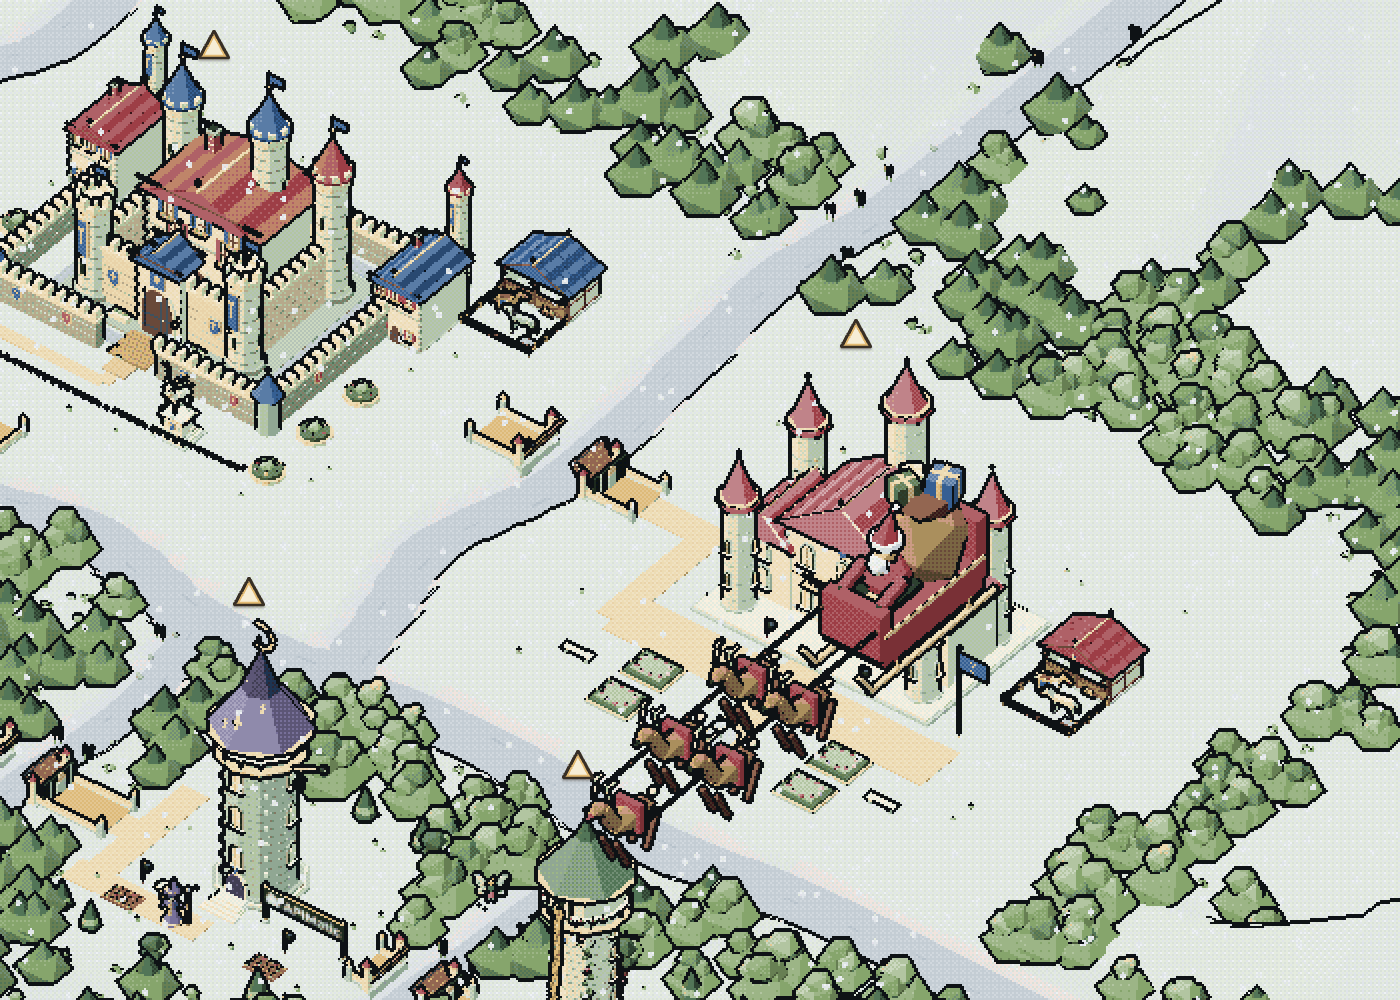
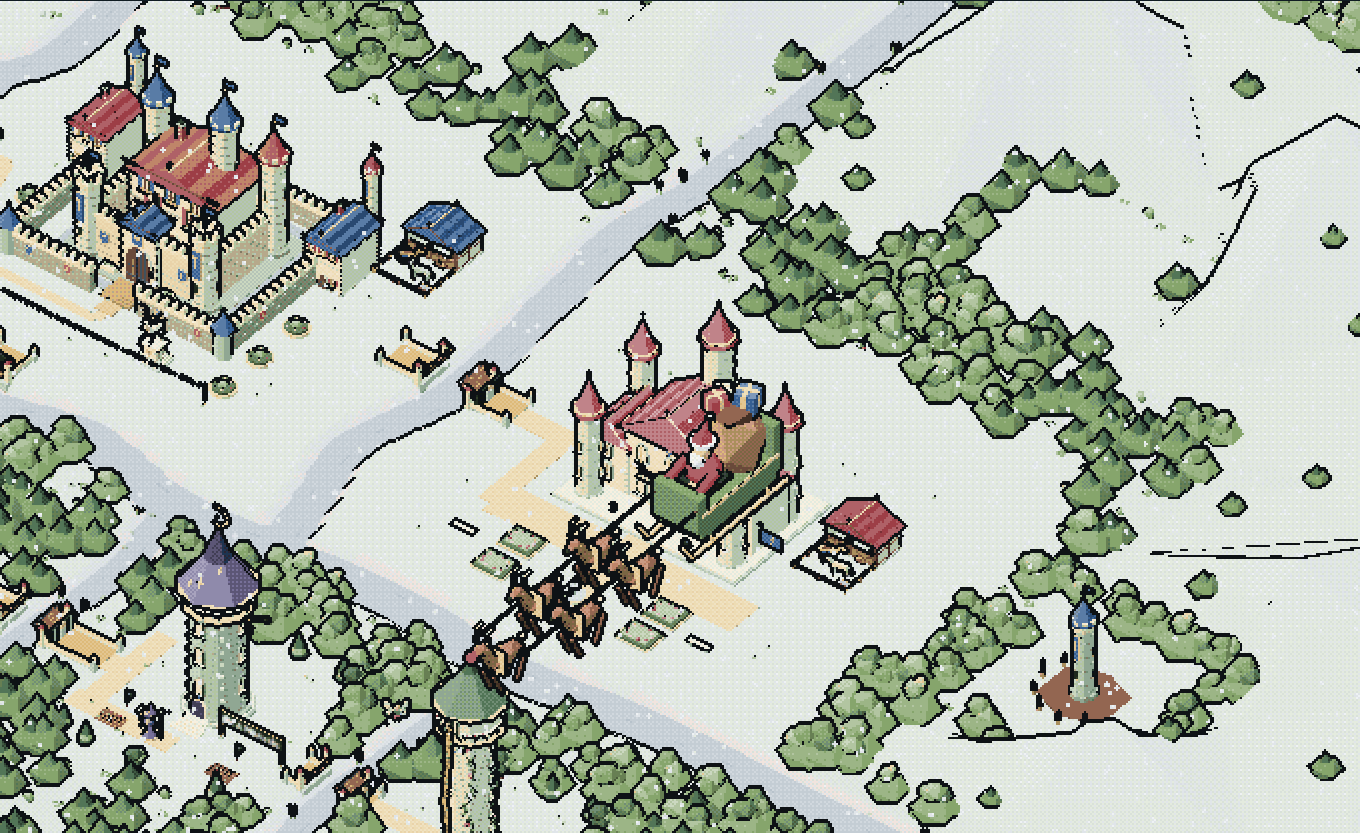
Make the Snow sleigh readable: red driver, green sleigh, brown reindeer
At night the sleigh team rendered near-black under moonlight, and by day
the red coat sat in a red sleigh while each reindeer wore a wide red band.
The driver is now red in a green and gold sleigh, the reindeer are brown
with a slim gold collar, and the lead's red nose is larger. The team's
meshes use their own copies of the materials and glow a little in their
own colours, more at night; shared scenery materials are untouched.

The Snow browser test requires the night glow to exceed the day glow.
New day and night renders replace the earlier sleigh picture.

diff --git a/src/world/winter-sleigh.js b/src/world/winter-sleigh.js
@@ -4,6 +4,10 @@ import * as THREE from 'three';
 // tree with a snowman in one outer meadow. Cosmetic only: never a district, reward, payment or ledger state.
 const WHITE=0xffffff,TREE_SITE=Object.freeze({x:-60,z:80});
 const FLIGHT=Object.freeze({x:32,z:0,rx:105,rz:52,height:30,speed:.1});
+// The flying team's own colours: a red driver in a green sleigh, so he stands out against it, behind brown reindeer.
+const SANTA=0xb8323d,SLEIGH=0x3d7a56,DEER=0x9a6646,HOOF=0x6b4630,NOSE=0xd22f3b;
+// How strongly the team glows in its own colours. Moonlight alone turns it near-black, so the glow is strongest at night.
+const GLOW=Object.freeze({day:.1,afternoon:.22,night:.55});
 export function createWinterSleigh({group,builder,colours:C,groundLevel=0}) {
   const root=new THREE.Group();root.name='winter-scenery';root.visible=false;group.add(root);
   const part=(...a)=>builder.part(...a);
@@ -19,19 +23,21 @@ export function createWinterSleigh({group,builder,colours:C,groundLevel=0}) {
     box(sleigh,0,1.38,z*1.08,3.6,.12,.06,C.gold);
     box(sleigh,5.9,1.6,z*.95,8.6,.05,.05,C.soil);
   }
-  box(sleigh,0,.9,0,3.6,.9,1.7,C.red);box(sleigh,1.75,1.35,0,.4,1.3,1.7,C.red);box(sleigh,-1.75,1.6,0,.4,1.8,1.7,C.red);
-  rock(sleigh,.6,1.95,0,1.2,1.3,1.2,C.red);box(sleigh,.6,1.6,0,1.1,.16,1.1,C.dark);box(sleigh,1.12,1.6,0,.1,.22,.3,C.gold);
-  for(const z of [-.55,.55]){box(sleigh,1.15,2.05,z,.9,.26,.26,C.red,0,-.3);rock(sleigh,1.6,1.9,z,.3,.3,.3,C.dark);}
+  box(sleigh,0,.9,0,3.6,.9,1.7,SLEIGH);box(sleigh,1.75,1.35,0,.4,1.3,1.7,SLEIGH);box(sleigh,-1.75,1.6,0,.4,1.8,1.7,SLEIGH);
+  // The driver: red coat and hat, white trim and beard, dark belt and mittens.
+  rock(sleigh,.6,1.95,0,1.2,1.3,1.2,SANTA);box(sleigh,.6,1.6,0,1.1,.16,1.1,C.dark);box(sleigh,1.12,1.6,0,.1,.22,.3,C.gold);
+  for(const z of [-.55,.55]){box(sleigh,1.15,2.05,z,.9,.26,.26,SANTA,0,-.3);rock(sleigh,1.6,1.9,z,.3,.3,.3,C.dark);}
   rock(sleigh,.7,2.75,0,.68,.68,.68,C.skin);rock(sleigh,.96,2.52,0,.5,.6,.62,WHITE);
-  part(sleigh,'round',.66,3.04,0,.82,.18,.82,WHITE);part(sleigh,'cone',.56,3.4,0,.72,.8,.72,C.red,0,.35);rock(sleigh,.3,3.72,0,.26,.26,.26,WHITE);
+  part(sleigh,'round',.66,3.04,0,.82,.18,.82,WHITE);part(sleigh,'cone',.56,3.4,0,.72,.8,.72,SANTA,0,.35);rock(sleigh,.3,3.72,0,.26,.26,.26,WHITE);
   rock(sleigh,-.75,2.2,0,2.3,2.7,2,C.wood);rock(sleigh,-.75,3.3,0,1.7,.7,1.5,C.soil);
-  gift(sleigh,-1.05,3.62,-.3,.7,C.blue,.3);gift(sleigh,-.4,3.6,.32,.6,C.pine,-.4);gift(sleigh,-.95,3.5,.5,.5,C.cream,.8);
-  // Two harnessed pairs and a red-nosed lead.
+  gift(sleigh,-1.05,3.62,-.3,.7,C.blue,.3);gift(sleigh,-.4,3.6,.32,.6,SANTA,-.4);gift(sleigh,-.95,3.5,.5,.5,C.cream,.8);
+  // Two harnessed pairs and a lead: brown coats, a slim gold collar and bell each, and the lead's red nose.
   const deer=(x,z,lead=false)=>{
-    rock(sleigh,x,1.15,z,1.7,.8,.7,C.wood);box(sleigh,x,1.2,z,.22,.84,.74,C.red);rock(sleigh,x,.7,z,.2,.2,.2,C.gold);
-    for(const [dx,lean] of [[-.55,.45],[.55,-.45]])for(const side of [-.2,.2])box(sleigh,x+dx,.5,z+side,.14,.95,.14,C.soil,0,lean);
-    box(sleigh,x+.8,1.65,z,.3,.9,.34,C.wood,0,-.5);rock(sleigh,x+1.15,2.08,z,.62,.45,.42,C.wood);
-    rock(sleigh,x+1.47,2.03,z,.2,.2,.2,lead?C.red:C.dark);rock(sleigh,x-.85,1.3,z,.25,.25,.25,C.cream);
+    rock(sleigh,x,1.15,z,1.7,.8,.7,DEER);box(sleigh,x+.42,1.22,z,.1,.86,.76,C.gold);rock(sleigh,x+.42,.72,z,.2,.2,.2,C.gold);
+    for(const [dx,lean] of [[-.55,.45],[.55,-.45]])for(const side of [-.2,.2])box(sleigh,x+dx,.5,z+side,.14,.95,.14,HOOF,0,lean);
+    box(sleigh,x+.8,1.65,z,.3,.9,.34,DEER,0,-.5);rock(sleigh,x+1.15,2.08,z,.62,.45,.42,DEER);
+    if(lead)rock(sleigh,x+1.52,2.03,z,.46,.46,.46,NOSE);else rock(sleigh,x+1.47,2.03,z,.2,.2,.2,C.dark);
+    rock(sleigh,x-.85,1.3,z,.25,.25,.25,C.cream);
     for(const side of [-1,1]){box(sleigh,x+1.02,2.55,z+side*.17,.08,.6,.08,C.cream,0,side*.25);box(sleigh,x+.9,2.72,z+side*.2,.3,.08,.08,C.cream);}
   };
   for(const x of [4.6,7.3])for(const z of [-.75,.75])deer(x,z);
@@ -49,6 +55,22 @@ export function createWinterSleigh({group,builder,colours:C,groundLevel=0}) {
   part(yard,'cone',-3.4,2.55,1.05,.14,.4,.14,C.gold,0,0);
   builder.flush();
 
+  // The team carries its own light. Its meshes get their own copies of the shared materials, each glowing in its own
+  // colour, so the shared scenery materials are untouched. The lead's nose always glows.
+  const own=new Map();
+  sleigh.traverse((mesh)=>{
+    if(!mesh.isInstancedMesh)return;
+    if(!own.has(mesh.material)){const copy=mesh.material.clone();copy.emissive.copy(copy.color);own.set(mesh.material,copy);}
+    mesh.material=own.get(mesh.material);mesh.userData.ownedMaterial=true;
+  });
+  const nose=own.get(builder.material(NOSE));
+  let glow=GLOW.day;
+  function light(period) {
+    glow=GLOW[period]??GLOW.day;
+    for(const material of own.values())material.emissiveIntensity=material===nose?.4+glow*.9:glow;
+  }
+  light('day');
+
   // The flight is an ellipse above the built interior, clear of the mountain rim; reduced motion leaves it at its start.
   function tick(seconds) {
     const a=seconds*FLIGHT.speed,vx=-FLIGHT.rx*Math.sin(a),vz=FLIGHT.rz*Math.cos(a);
@@ -56,5 +78,5 @@ export function createWinterSleigh({group,builder,colours:C,groundLevel=0}) {
     sleigh.rotation.y=Math.atan2(-vz,vx);
   }
   tick(0);
-  return {root,tick:(seconds)=>{if(root.visible)tick(seconds);},debug:()=>({visible:root.visible,reindeer:5,x:sleigh.position.x,z:sleigh.position.z})};
+  return {root,light,tick:(seconds)=>{if(root.visible)tick(seconds);},debug:()=>({visible:root.visible,reindeer:5,glow,x:sleigh.position.x,z:sleigh.position.z})};
 }

diff --git a/src/world/board-scene.js b/src/world/board-scene.js
@@ -475,7 +475,7 @@ export function createBoardScene(container, { reducedMotion = false, isOccluded 
     // Snow whitens the land through the ground's emissive term (its colour is a multiplier, so it cannot lighten); rivers turn icy.
     ground?.material.emissive.setHex(snowy ? 0xffffff : 0x000000); if (ground) ground.material.emissiveIntensity = snowy ? (night ? 0.25 : 0.7) : 0;
     if (snowy) water?.material.color.lerp(new THREE.Color(0xd5e8ee), 0.55);
-    snow.flakes.visible = snowy; snow.winter.root.visible = snowy;
+    snow.flakes.visible = snowy; snow.winter.root.visible = snowy; snow.winter.light(atmosphere.period);
     if (!snowy) snow.flakes.position.y = 0;
     // Wet roofs and walls: a lower roughness gives the standard materials a damp sheen.
     for (const material of builder.materials.values()) material.roughness = wet ? 0.5 : 0.87;

diff --git a/docs/ART-DIRECTION.md b/docs/ART-DIRECTION.md
@@ -284,7 +284,7 @@ The owner asked for *"night/day/afternoon/rain mode that enables the homes or ca
 | Light comes from the buildings | Owner: lights "to illuminate the dark" | Window glass and lantern glass have their own material roles, separate from cream stone, and glow at night. A few distance-limited warm point lights at the district homes, plus cheap warm ground pools at doors and bridge gates, brighten nearby walls and paths |
 | Day, afternoon, night | Owner + target screenshot | Day keeps the existing light. Afternoon has a lower warm-gold sun with cooler fill. Night has cool blue moonlight bright enough to read the forest, buildings and bridges |
 | Rain with any time of day | Owner | Softer, cloudier light, damp ground and wet-looking roofs, darker water, and restrained slanted world-space streaks with small splashes. No lightning |
-| Snow with any time of day | Rachel: a winter Christmas version of the map | Chosen in Weather. White ground, icy rivers and slow flakes. Only this weather shows the Christmas scenery: a sleigh circling above the realm with five reindeer and a sack of gifts, and a decorated tree with a snowman in the front-left meadow. A real local snow report is still drawn as overcast. Renders: [sleigh](screenshots/winter-sleigh.png), [tree](screenshots/winter-tree.png) |
+| Snow with any time of day | Rachel: a winter Christmas version of the map | Chosen in Weather. White ground, icy rivers and slow flakes. Only this weather shows the Christmas scenery: a sleigh circling above the realm with five reindeer and a sack of gifts, and a decorated tree with a snowman in the front-left meadow. The driver wears red in a green and gold sleigh, behind brown reindeer whose lead has a red nose (owner's note). The team glows a little in its own colours, more at night, because moonlight alone turned it near-black. A real local snow report is still drawn as overcast. Renders: [sleigh by day](screenshots/winter-sleigh.png), [sleigh at night](screenshots/winter-sleigh-night.png), [tree](screenshots/winter-tree.png) |
 | Cosmetic only | Product rules | Night light is not the provider-locked lantern festival. Atmosphere never changes previews, rewards, progress or access, and makes no server request |
 | Compact controls beside the map | MekaVerse and Wayfinder restraint | Two square selects, Time of day (Auto, Day, Afternoon, Night) and Weather (Clear, Rain, Snow, Local weather), with one status line naming the source |
 | Auto follows the device clock | Owner: the person's actual time zone | The device's IANA time zone through `Intl` (day 06–15, afternoon 15–19, night 19–06), labelled as the device clock rather than astronomical sunrise. Never a PayPal address or account data |

diff --git a/docs/VALIDATION.md b/docs/VALIDATION.md
@@ -1,5 +1,14 @@
 # Validation
 
+## Snow sleigh colours — November 10, 2026
+
+Branch `claude/sleigh-colours-20261110`, on `main` at `97c084a`. Looking at Snow in a running example at night, the owner found the sleigh team too dark, the driver not clearly red and hard to tell from the sleigh, and the reindeer not brown.
+
+- **Cause, seen in captures before the change:** under night moonlight the team's shared materials rendered near-black. By day the red coat sat in a red sleigh the colour of the palace roofs, and each reindeer wore a wide red band.
+- **Change** (scenery only: `src/world/winter-sleigh.js` and one line in `src/world/board-scene.js`): a red driver in a green and gold sleigh, brown reindeer with a slim gold collar, and a larger red nose on the lead. The team's meshes use their own copies of the materials and glow a little in their own colours: 0.1 by day, 0.22 in the afternoon, 0.55 at night. The shared scenery materials are untouched, and every colour still passes through the original 90-colour palette.
+- **Checks:** the Snow browser test now also requires the night glow to exceed the day glow. It passed on desktop locally, and failed when the night glow was set equal to the day's (then restored). `npm run check` passed; the unit run reported 777 results, 775 passed, two existing skips. Day, afternoon and night captures were inspected before and after. The [day](screenshots/winter-sleigh.png) and [night](screenshots/winter-sleigh-night.png) renders come from [the capture script](screenshots/winter-sleigh-capture.mjs): a disposable example, no page error, no request left the page's origin.
+- Not checked: the phone layout, and the tree and snowman at night, which are unchanged.
+
 ## README refresh, meadow scenery and Snow weather — November 10, 2026
 
 Branch `claude/readme-scenery-snow-20261110`, built on `main` at `fb65357` (after #85). At the owner's request it brings in Rachel's two scenery branches unchanged, with ordinary merge commits: four outer-meadow miniatures ([#86](https://github.com/alejandro-publius/our-castle/pull/86), `7aeb38e`) and Snow weather with a sleigh, tree and snowman ([#87](https://github.com/alejandro-publius/our-castle/pull/87), `6aaf8cd`). It also refreshes the README, its diagrams and the current-state notes. No server, payment, dependency or workflow change.

diff --git a/README.md b/README.md
@@ -87,7 +87,7 @@ The walkthrough captures use isolated test households and simulated contribution
 
 | Snow: the sleigh over Rosewind Palace | A tourney field in an outer meadow |
 | --- | --- |
-| ![Snow weather: white ground, icy rivers and a red sleigh with reindeer flying over Rosewind Palace](docs/screenshots/winter-sleigh.png) | ![An outer meadow with a tilt rail, two striped pavilions and a rack of shields](docs/screenshots/meadow-tourney.png) |
+| ![Snow weather: white ground, icy rivers and a green and gold sleigh with a red-coated driver and brown reindeer flying over Rosewind Palace](docs/screenshots/winter-sleigh.png) | ![An outer meadow with a tilt rail, two striped pavilions and a rack of shields](docs/screenshots/meadow-tourney.png) |
 
 ## Hold first, then release in steps
 
